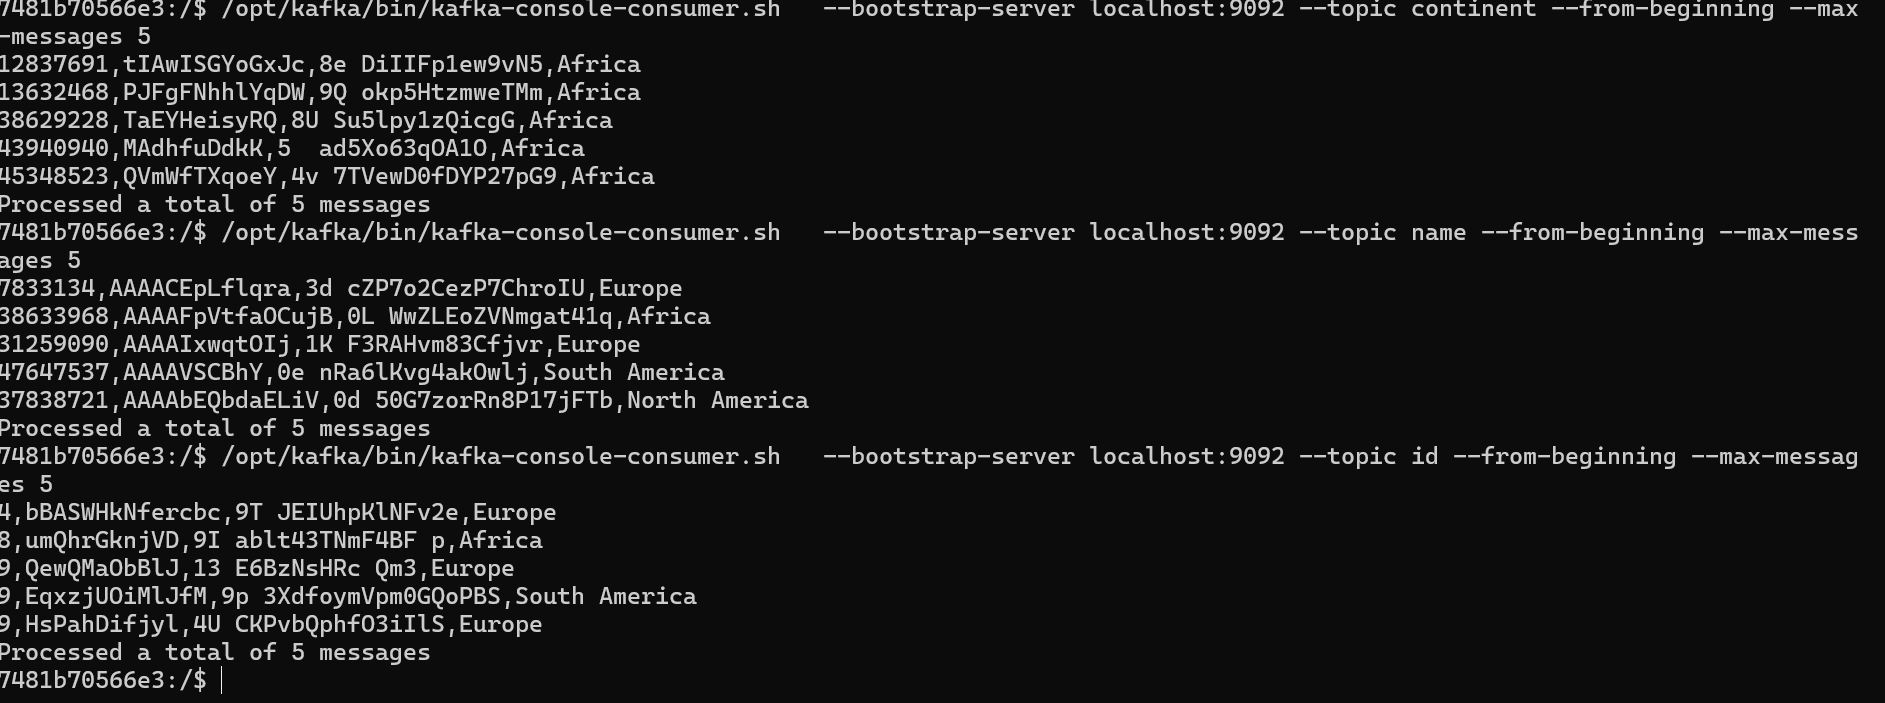
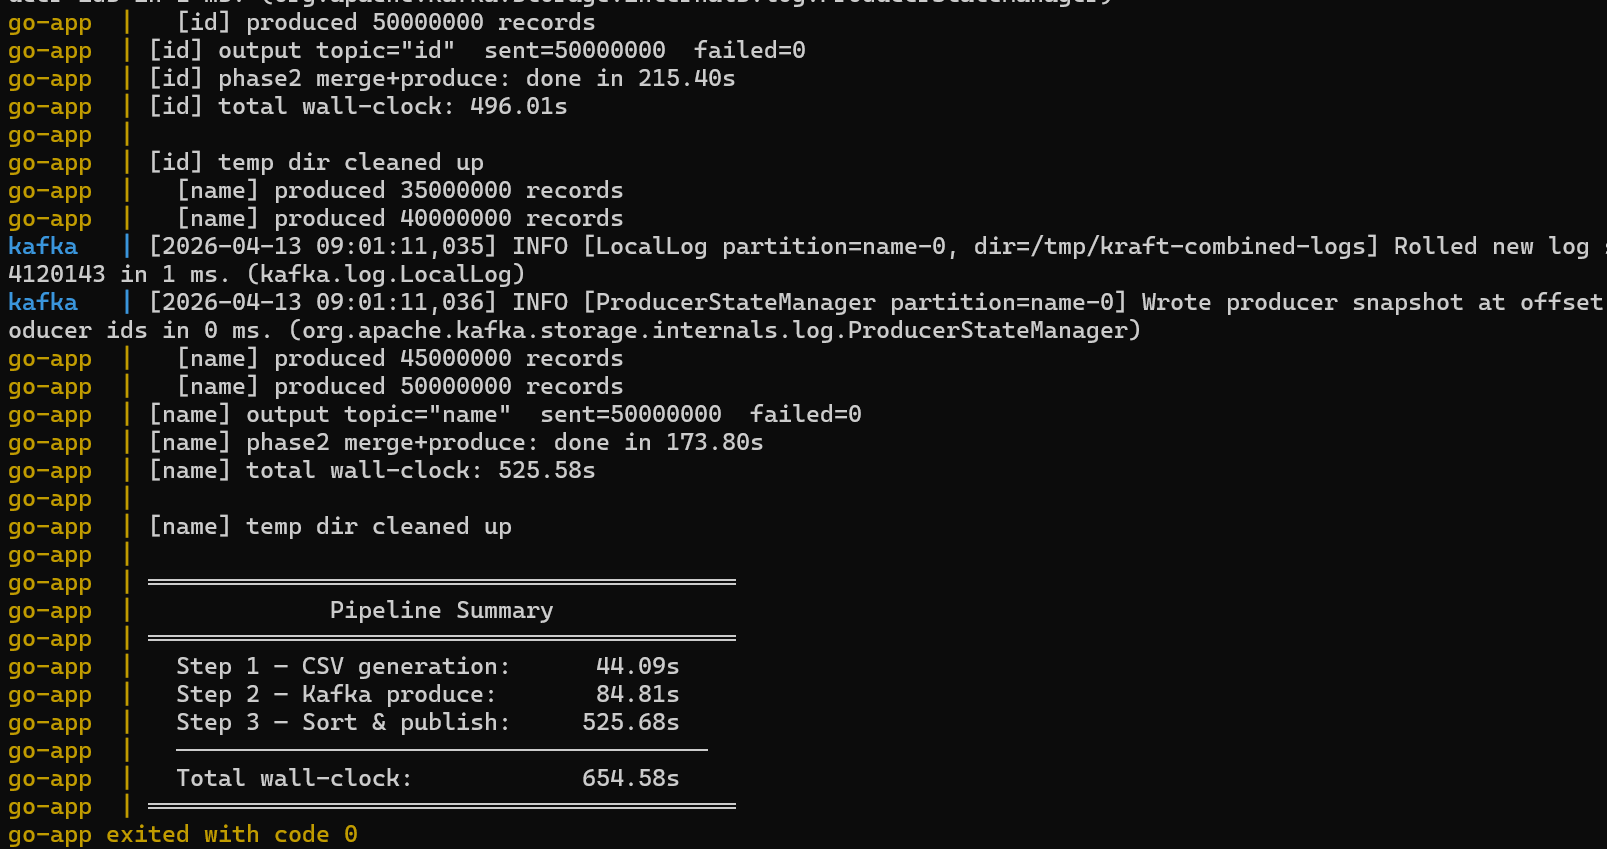
readme changes

Changed region(s): [[0.0, 0.0, 0.9956, 1.0]]

diff --git a/HOW_TO_RUN.md b/HOW_TO_RUN.md
@@ -58,13 +58,8 @@ Both options print a step-by-step summary when the pipeline finishes:
 
 ## Verify correctness (optional)
 
-On Linux/macOS:
-```bash
-./scripts/verify.sh
 ```
-On Windows:
-```bat
-scripts\verify.bat
+bash scripts/verify.sh
 ```
 
 Prints the first 10 records from each output topic. Check that: